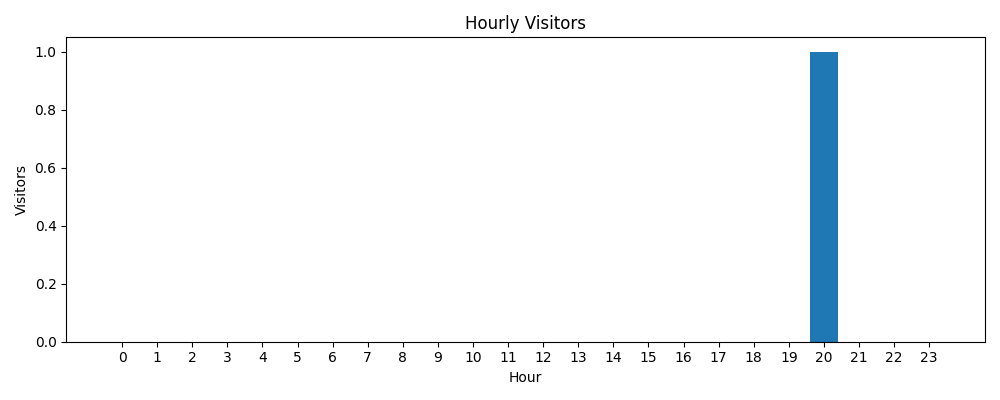
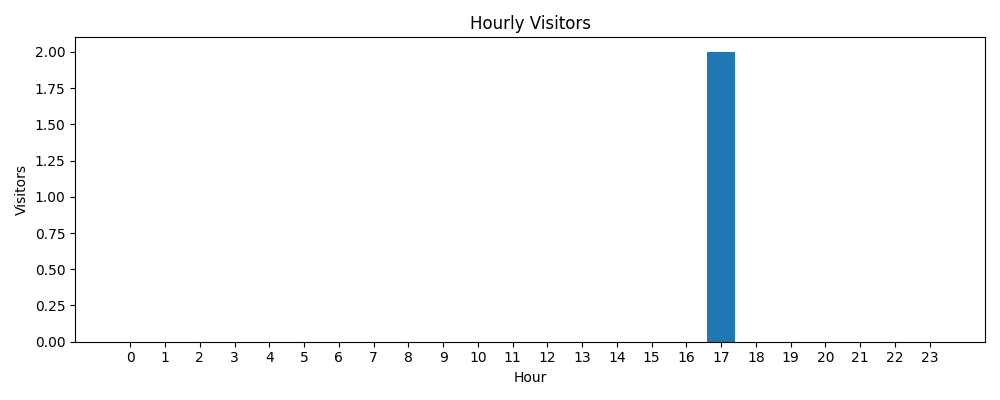
Describe today's work

diff --git a/main.py b/main.py
@@ -14,6 +14,10 @@ from graphs import save_hourly_graph
 from reports import save_daily_summary
 from flask import Flask, Response, render_template_string
 from dashboard_data import get_latest_summary
+from live_data import live_metrics
+
+
+
 with open("dashboard.html", "r", encoding="utf-8") as f:
     HTML = f.read()
 app = Flask(__name__) 
@@ -290,6 +294,32 @@ def run_detector():
     
         current_occupancy=sum(1 for p in people.values() if p["inside"])
         peak_occupancy=max(peak_occupancy,current_occupancy)
+
+        live_metrics["visitors"] = enter_count
+        live_metrics["occupancy"] = current_occupancy
+
+        live_metrics["peak_hour"] = (
+            max(hour_counts, key=hour_counts.get)
+            if hour_counts else "N/A"
+        )
+
+        dwell_times = [
+            p["total_time"] + (
+                now - p["enter_time"]
+                if p["inside"] and p["enter_time"]
+                else 0
+            )
+            for p in people.values()
+        ]
+
+        live_metrics["avg_dwell"] = (
+            sum(dwell_times) / len(dwell_times)
+            if dwell_times else 0
+        )
+
+# Temporary until we improve the calculation
+        live_metrics["risk_score"] = 0
+
 
         heat = get_heatmap()
 

diff --git a/live_data.py b/live_data.py
@@ -1,0 +1,7 @@
+live_metrics = {
+    "visitors": 0,
+    "occupancy": 0,
+    "peak_hour": "N/A",
+    "avg_dwell": 0.0,
+    "risk_score": 0.0
+}
